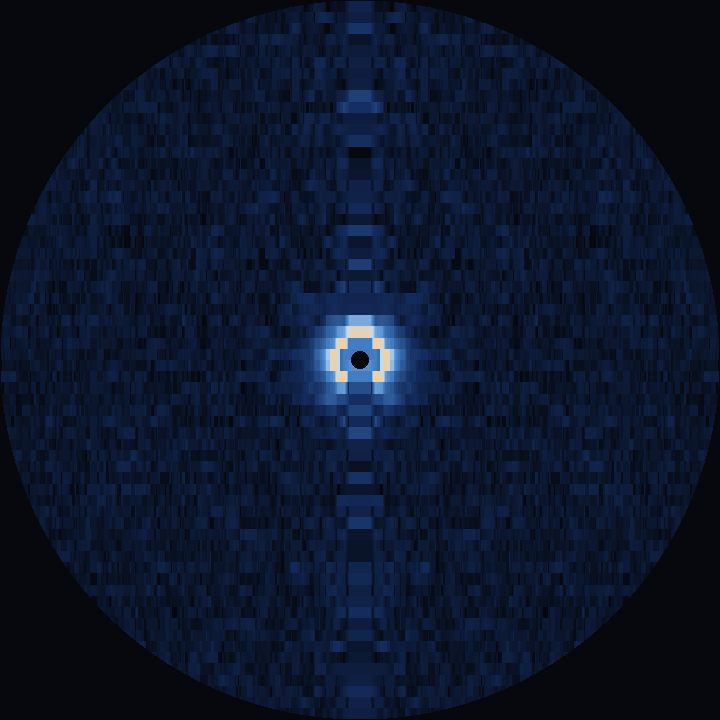
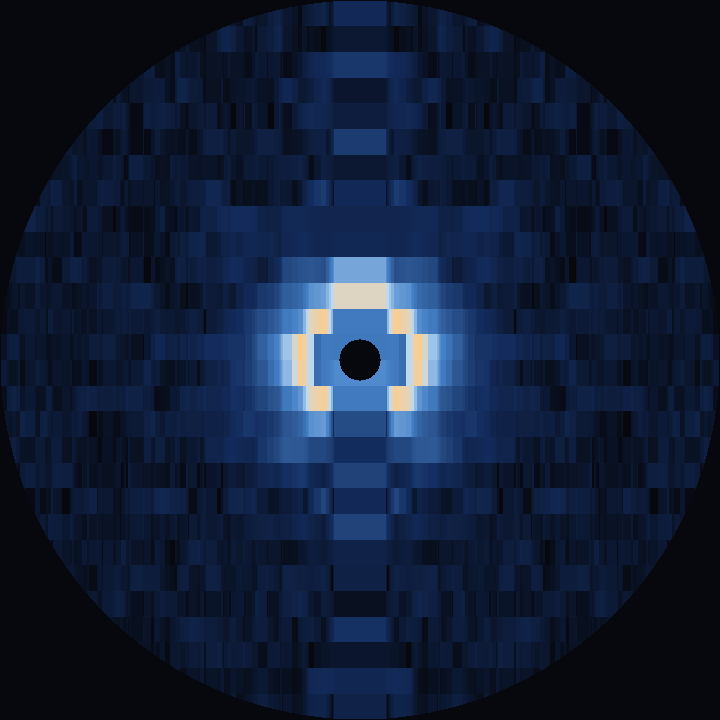
Hydrogen

diff --git a/implementations/.ts/src/lib/Vacuum.ts b/implementations/.ts/src/lib/Vacuum.ts
@@ -88,6 +88,22 @@ export type Rules = {
      * the radial wavefunction rather than a gate.
      */
     schedule?: (tick: number) => number;
+    /**
+     * THE SOURCE'S OWN MOTION, INSTEAD OF A SHAPE TO EMIT.
+     *
+     * `pattern` says which directions fire, which means the angular shape is specified rather
+     * than produced - typing |Y20|^2 in and reading |Y20|^2 out is not emergence, and the
+     * ballistic control confirmed the vacuum added nothing to it.
+     *
+     * A body in these rules is a region of TURNING with angular momentum. So this says only that:
+     * rays go out in every direction equally, and their POLARITY is the sign of how they run
+     * against the azimuth. `fieldAt` sums polarity times direction, so that makes B tangential -
+     * a circulating body - while the emission itself carries NO angular preference whatever.
+     *
+     * Whatever shape then appears around it is the vacuum's, made by `steer` turning rays about
+     * the field the body's own circulation built. Nothing about a harmonic is put in.
+     */
+    spin?: "circulating";
   };
 };
 
@@ -455,6 +471,13 @@ export const tick = (w: World, R: Rules, dt: number, seed: number) => {
       /* the schedule's SIZE gates the firing and its SIGN sets the polarity - a node is where
        * the polarity flips, which is what a radial node is */
       let pol = rnd() < 0.5 ? 1 : -1;
+      if (R.source.spin === "circulating") {
+        /* the polarity is the sign against phi^ - the body turns, the emission does not favour
+         * any direction, and B comes out tangential because `fieldAt` sums p times d^ */
+        const rho2 = Math.hypot(rr*dx, rr*dy) || 1;
+        const fx = -(rr*dy)/rho2, fy = (rr*dx)/rho2;
+        pol = (dx*fx + dy*fy) >= 0 ? 1 : -1;
+      }
       if (R.source.schedule) {
         const a = R.source.schedule(w.ticks);
         if (rnd() >= Math.min(1, Math.abs(a))) continue;
